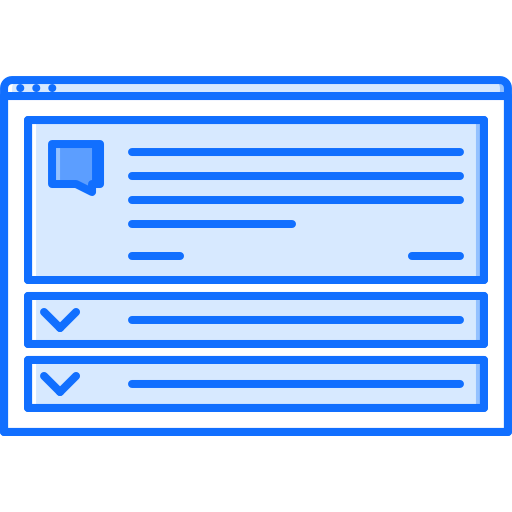
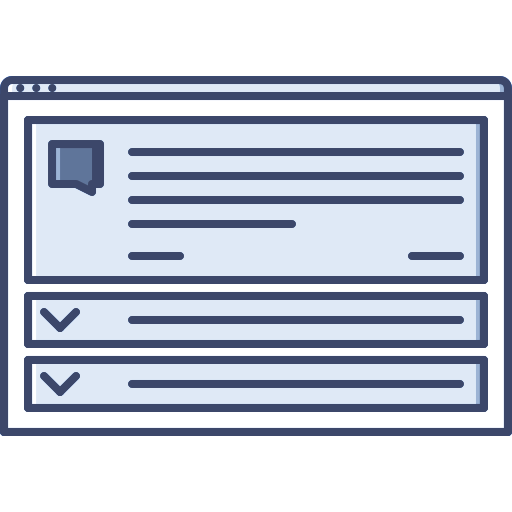
landing page popup changes

Changed region(s): [[0.0, 0.125, 1.0, 0.875]]

diff --git a/css/maince5a.css b/css/maince5a.css
@@ -24259,7 +24259,7 @@ body.search-wrapper .select2-container--default .select2-results__option[aria-se
 }
 
 .onboarding-modal .onboarding-content.with-gradient {
-    padding: 30px 50px 30px;
+    padding: 30px 35px 30px;
     background-image: url(../img/onboarding-gradient-hor.png);
     background-size: 100% auto;
     background-position: top center;
@@ -24267,29 +24267,29 @@ body.search-wrapper .select2-container--default .select2-results__option[aria-se
 }
 
 .onboarding-modal .onboarding-content h1, .onboarding-modal .onboarding-content h2, .onboarding-modal .onboarding-content h3, .onboarding-modal .onboarding-content h4 {
-  color: #005aaa;
-  margin-bottom: 1.5rem
+    color: #2a3145;
+    margin-bottom: 1.5rem;
 }
 
 .onboarding-modal .onboarding-content .onboarding-text {
-    color: rgb(69, 76, 96);
+    color: rgb(42, 49, 69);
     font-weight: 400;
     font-size: .94rem;
     margin-bottom: 30px;
     padding-left: 20px;
     padding-right: 20px;
 }
-.onboarding-footer{
+.onboarding-footer {
     padding: 30px 50px 30px;
     border-top: 1px solid #e0e0e0;
-    background-color: #0259aa;
+    background-color: #293145;
     color: white;
     border-radius: 0px 0px 5px 5px;
 }
-.onboarding-footer strong{
-  margin-bottom: 10px;
+.onboarding-footer strong {
+    margin-bottom: 10px;
     display: block;
-    font-size: 1.1rem;
+    font-size: 1.8rem;
 }
 .onboarding-modal .onboarding-content .onboarding-text:last-child {
   margin-bottom: 10px
@@ -24382,9 +24382,10 @@ body.search-wrapper .select2-container--default .select2-results__option[aria-se
 }
 
 .onboarding-modal .onboarding-slider-w .onboarding-slide:first-child {
-  display: block
+    display: block;
+    border: 1px solid #4c5263;
+    border-radius: 6px;
 }
-
 .onboarding-modal .onboarding-slider-w.slick-initialized .onboarding-slide {
   display: block
 }
@@ -24537,7 +24538,6 @@ body.search-wrapper .select2-container--default .select2-results__option[aria-se
   content: "\e987";
   left: -20px
 }
-
 .onboarding-modal .slick-dots {
   position: absolute;
   bottom: 30px;
@@ -24590,7 +24590,9 @@ body.search-wrapper .select2-container--default .select2-results__option[aria-se
     padding-bottom: 27px;
     padding-top: 0px;
 }
-
+.onboarding-modal .modal-dialog{
+  margin-top: 4rem
+}
 .all-wrapper>.top-bar {
   border-radius: 6px 6px 0px 0px
 }

diff --git a/index.html b/index.html
@@ -908,7 +908,7 @@
 
 
   <div aria-hidden="true" class="onboarding-modal modal fade animated show-on-load" role="dialog" tabindex="-1">
-            <div class="modal-dialog modal-centered" role="document">
+            <div class="modal-dialog modal-centered modal-lg" role="document">
                 <div class="modal-content text-center">
                     <button aria-label="Close" class="close" data-dismiss="modal" type="button">
                       <span class="close-label">Skip Intro</span>
@@ -920,15 +920,16 @@
                               <img alt="" src="./img/bigicon6.png" width="150px">
                             </div>
                             <div class="onboarding-content with-gradient">
+                              <h4 class="onboarding-title">Announcement</h4>
                             <div class="onboarding-text">
-                              Legitquest is to glad to share that we have added new features and High Court judgments into the system.
-                              If you have free access than the premium features will not be available to you. Case law data is however available to all free of any charge.
+                              Legitquest is to glad to share that we have added new features and High Court judgments into the system. If you have free access than the premium features will not be available to you. Case law data is as earlier is free to be used.
+
                             </div>
                             </div>
 
                             <div class="onboarding-footer">
-                              <strong>For paid account users:</strong>
-                              <p>You would have received an email for new user ID and password. Kindly refer the same to continue having access to the new system which also included premium features like Disposition, iDRAF (case segregation), any many more.</p>
+                              <strong>For Paid Account Users</strong>
+                              <p>You would have received an email for new user ID and password. Kindly refer the same to continue having access to the new system which also included premium features like Disposition, iDRAF (case segregation), and many more.</p>
                             </div>
                         </div>
 
